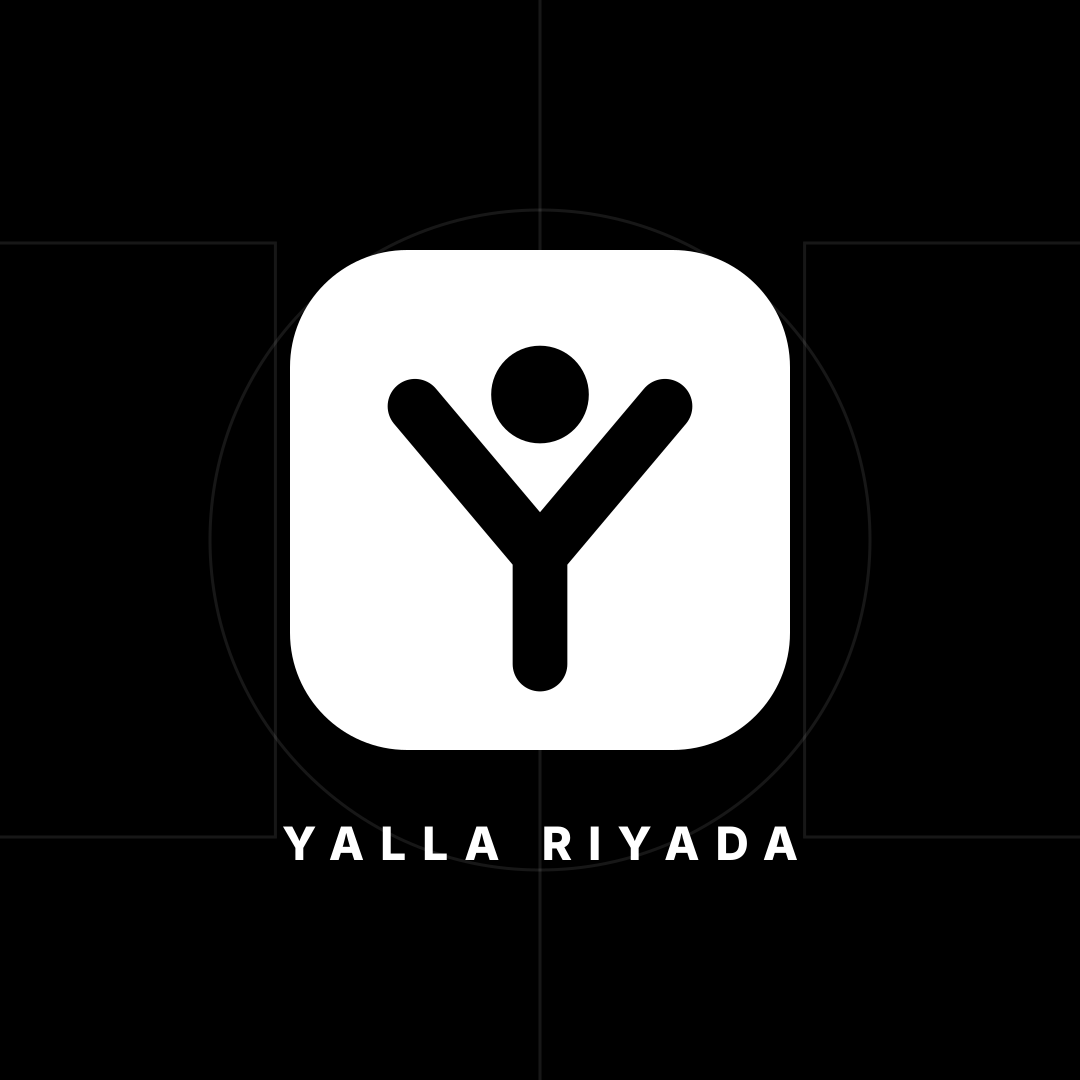
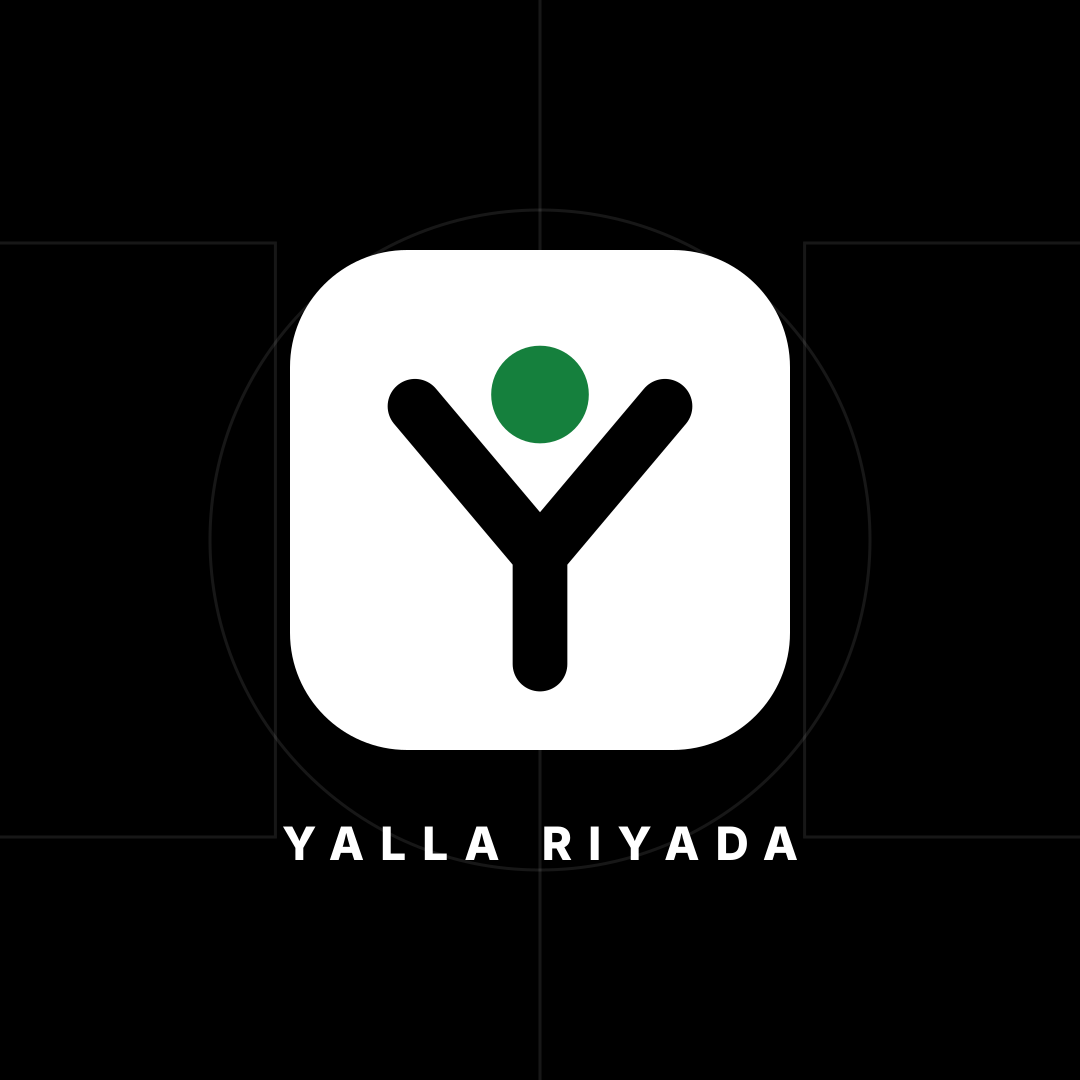
Add files via upload

Changed region(s): [[0.4583, 0.3056, 0.55, 0.4278]]

diff --git a/styles.css b/styles.css
@@ -4,11 +4,11 @@
 :root{
   --bg:#000; --bg2:#0b0b0b; --panel:#111; --panel2:#1b1b1b; --line:#2c2c2c;
   --text:#fff; --muted:#a3a3a3; --inv:#fff; --on-inv:#000; --focus:#fff;
-  --r:16px; color-scheme:dark;
+  --acc:#c6ff3d; --on-acc:#000; --r:16px; color-scheme:dark;
 }
 :root[data-theme="light"]{
   --bg:#fff; --bg2:#f5f5f5; --panel:#fff; --panel2:#efefef; --line:#d6d6d6;
-  --text:#0a0a0a; --muted:#5b5b5b; --inv:#000; --on-inv:#fff; --focus:#000;
+  --text:#0a0a0a; --muted:#5b5b5b; --inv:#000; --on-inv:#fff; --focus:#000; --acc:#15803d; --on-acc:#fff;
   color-scheme:light;
 }
 
@@ -27,10 +27,10 @@ img,svg{max-width:100%}
 .page{min-height:70vh;padding-block:40px 64px}
 p{color:var(--muted);margin:.4em 0 1em}
 h1{font-size:clamp(32px,5vw,56px);line-height:1.2;margin:.2em 0 .3em;font-weight:900}
-h1 em{font-style:normal;text-decoration:underline;text-decoration-thickness:4px;text-underline-offset:8px}
+h1 em{font-style:normal;text-decoration:underline;text-decoration-color:var(--acc);text-decoration-thickness:4px;text-underline-offset:8px}
 h2{font-size:24px;margin:0 0 .5em}
 h3{margin:0 0 .3em}
-.kicker{font:800 11px Arial,sans-serif;letter-spacing:3px;color:var(--muted);direction:ltr;display:inline-block}
+.kicker{font:800 11px Arial,sans-serif;letter-spacing:3px;color:var(--acc);direction:ltr;display:inline-block}
 .sub{font-size:17px}
 .note{font-size:13px;color:var(--muted)}
 .danger-note{border:1px solid var(--text);border-radius:12px;padding:12px 14px;font-size:14px;color:var(--text);background:var(--bg2)}
@@ -45,7 +45,7 @@ header.header{position:sticky;top:0;z-index:30;background:color-mix(in srgb,var(
 .header nav{display:flex;align-items:center;gap:4px;margin-inline-start:auto;font-size:14px;font-weight:700}
 .header nav a{padding:8px 12px;border-radius:10px;color:var(--muted);white-space:nowrap}
 .header nav a:hover{color:var(--text);background:var(--panel2)}
-.header nav a.active{color:var(--on-inv);background:var(--inv)}
+.header nav a.active{color:var(--on-acc);background:var(--acc)}
 .icon-btn{width:42px;height:42px;display:inline-grid;place-items:center;border-radius:12px;border:1px solid var(--line);background:var(--panel);font-size:18px;line-height:1}
 .icon-btn:hover{border-color:var(--text)}
 .menu{display:none}
@@ -54,8 +54,8 @@ header.header{position:sticky;top:0;z-index:30;background:color-mix(in srgb,var(
 .tabbar{display:none}
 
 /* ---------- أزرار وعناصر ---------- */
-.btn{display:inline-flex;align-items:center;justify-content:center;gap:8px;min-height:46px;padding:10px 20px;border-radius:12px;border:1px solid var(--text);background:var(--inv);color:var(--on-inv);font-weight:800}
-.btn.primary{background:var(--inv);color:var(--on-inv)}
+.btn{display:inline-flex;align-items:center;justify-content:center;gap:8px;min-height:46px;padding:10px 20px;border-radius:12px;border:1px solid var(--acc);background:var(--acc);color:var(--on-acc);font-weight:800}
+.btn.primary{background:var(--acc);color:var(--on-acc)}
 .btn.outline,.btn.ghost{background:transparent;color:var(--text);border-color:var(--line)}
 .btn.outline:hover,.btn.ghost:hover{border-color:var(--text)}
 .btn:disabled{opacity:.5;cursor:not-allowed}
@@ -63,21 +63,21 @@ header.header{position:sticky;top:0;z-index:30;background:color-mix(in srgb,var(
 .back{display:inline-flex;align-items:center;gap:6px;margin-bottom:12px;color:var(--muted);font-weight:700;font-size:14px;padding:6px 0}
 .back:hover{color:var(--text)}
 .tag{display:inline-block;border:1px solid var(--line);border-radius:999px;padding:2px 10px;font-size:11px;font-weight:700;color:var(--muted);white-space:nowrap}
-.tag.live{background:var(--inv);color:var(--on-inv);border-color:var(--inv)}
+.tag.live{background:var(--acc);color:var(--on-acc);border-color:var(--acc)}
 .pills{display:flex;gap:8px;overflow-x:auto;padding:4px 0;margin:14px 0 18px;scrollbar-width:none}
 .pills::-webkit-scrollbar{display:none}
 .pill,.pills button{flex:0 0 auto;min-height:42px;padding:6px 20px;border-radius:999px;border:1px solid var(--line);background:var(--panel);color:var(--muted);font-weight:800}
-.pill.active,.pills button.active{background:var(--inv);color:var(--on-inv);border-color:var(--inv)}
+.pill.active,.pills button.active{background:var(--acc);color:var(--on-acc);border-color:var(--acc)}
 .panel{background:var(--panel);border:1px solid var(--line);border-radius:var(--r);padding:20px;margin:16px 0;overflow:hidden}
 
 /* ---------- كروت ---------- */
 .feature-grid,.match-grid,.product-grid{display:grid;gap:14px;grid-template-columns:repeat(3,minmax(0,1fr));margin:22px 0}
 .feature,.match,.product{display:block;min-width:0;background:var(--panel);border:1px solid var(--line);border-radius:var(--r);padding:20px;transition:transform .15s,border-color .15s}
-a.feature:hover,a.match:hover,a.product:hover{transform:translateY(-3px);border-color:var(--text)}
+a.feature:hover,a.match:hover,a.product:hover{transform:translateY(-3px);border-color:var(--acc)}
 .feature{min-height:170px}
 .feature h3{font-size:19px;margin-bottom:8px}
 .feature p{font-size:14px;margin:0 0 16px}
-.feature b{font-size:13px}
+.feature b{font-size:13px;color:var(--acc)}
 .match-meta,.match-foot{display:flex;justify-content:space-between;align-items:center;gap:8px;font-size:12px;color:var(--muted)}
 .match-foot{border-top:1px solid var(--line);padding-top:10px;margin-top:2px}
 .teams{display:grid;grid-template-columns:1fr auto 1fr;align-items:center;text-align:center;gap:8px;padding:18px 0}
@@ -99,10 +99,10 @@ a.feature:hover,a.match:hover,a.product:hover{transform:translateY(-3px);border-
 .chat{display:flex;flex-direction:column;min-height:480px;background:var(--panel);border:1px solid var(--line);border-radius:var(--r);overflow:hidden}
 .chat-head{display:flex;align-items:center;gap:12px;padding:14px 16px;border-bottom:1px solid var(--line)}
 .chat-head small{display:block;color:var(--muted);font-size:12px}
-.ai-icon{width:40px;height:40px;display:grid;place-items:center;border-radius:12px;background:var(--inv);color:var(--on-inv);font-size:18px}
+.ai-icon{width:40px;height:40px;display:grid;place-items:center;border-radius:12px;background:var(--acc);color:var(--on-acc);font-size:18px}
 .messages{flex:1;overflow-y:auto;padding:16px;display:flex;flex-direction:column;gap:10px;max-height:56vh}
 .bubble{max-width:min(560px,86%);padding:10px 14px;border-radius:16px;background:var(--panel2);border:1px solid var(--line);color:var(--text);white-space:pre-wrap;overflow-wrap:anywhere}
-.bubble.user{align-self:flex-end;background:var(--inv);color:var(--on-inv);border-color:var(--inv)}
+.bubble.user{align-self:flex-end;background:var(--acc);color:var(--on-acc);border-color:var(--acc)}
 .suggestions{display:flex;flex-wrap:wrap;gap:8px;padding:0 16px 12px}
 .suggestions button{min-height:40px;padding:6px 14px;border-radius:999px;border:1px solid var(--line);background:transparent;font-size:13px;font-weight:700}
 .suggestions button:hover{border-color:var(--text)}
@@ -116,7 +116,7 @@ a.feature:hover,a.match:hover,a.product:hover{transform:translateY(-3px);border-
 .form-stack input[type=checkbox]{width:auto;min-height:0}
 .stat{background:var(--panel2);padding:12px;border-radius:10px;margin:8px 0}
 .statbar{height:8px;background:var(--panel2);border-radius:10px;overflow:hidden;border:1px solid var(--line)}
-.statbar i{display:block;height:100%;background:var(--inv)}
+.statbar i{display:block;height:100%;background:var(--acc)}
 .detail-grid{display:grid;grid-template-columns:1.4fr 1fr;gap:16px}
 .lineup{display:grid;grid-template-columns:repeat(2,minmax(0,1fr));gap:10px}
 .lineup div{background:var(--panel2);padding:12px;border-radius:10px}
@@ -149,7 +149,7 @@ footer.footer{margin-top:40px;padding:32px 0 calc(32px + env(safe-area-inset-bot
   .tabbar{position:fixed;inset-inline:0;bottom:0;z-index:40;display:grid;grid-template-columns:repeat(5,1fr);background:var(--bg);border-top:1px solid var(--line);padding:6px 4px calc(6px + env(safe-area-inset-bottom))}
   .tabbar a{display:grid;justify-items:center;gap:2px;padding:6px 2px;border-radius:12px;font-size:11px;font-weight:800;color:var(--muted)}
   .tabbar a svg{width:22px;height:22px}
-  .tabbar a.active{color:var(--on-inv);background:var(--inv)}
+  .tabbar a.active{color:var(--on-acc);background:var(--acc)}
   .messages{max-height:50vh}
 }
 @media(prefers-reduced-motion:reduce){*{transition:none!important}}
@@ -157,5 +157,5 @@ footer.footer{margin-top:40px;padding:32px 0 calc(32px + env(safe-area-inset-bot
 /* الشعار المضمّن: يتبدّل مع الثيم */
 .mark .m-bg{fill:var(--inv)}
 .mark .m-fg{stroke:var(--on-inv)}
-.mark .m-ball{fill:var(--on-inv)}
+.mark .m-ball{fill:var(--acc)}
 .foot .brand{color:var(--text)}
